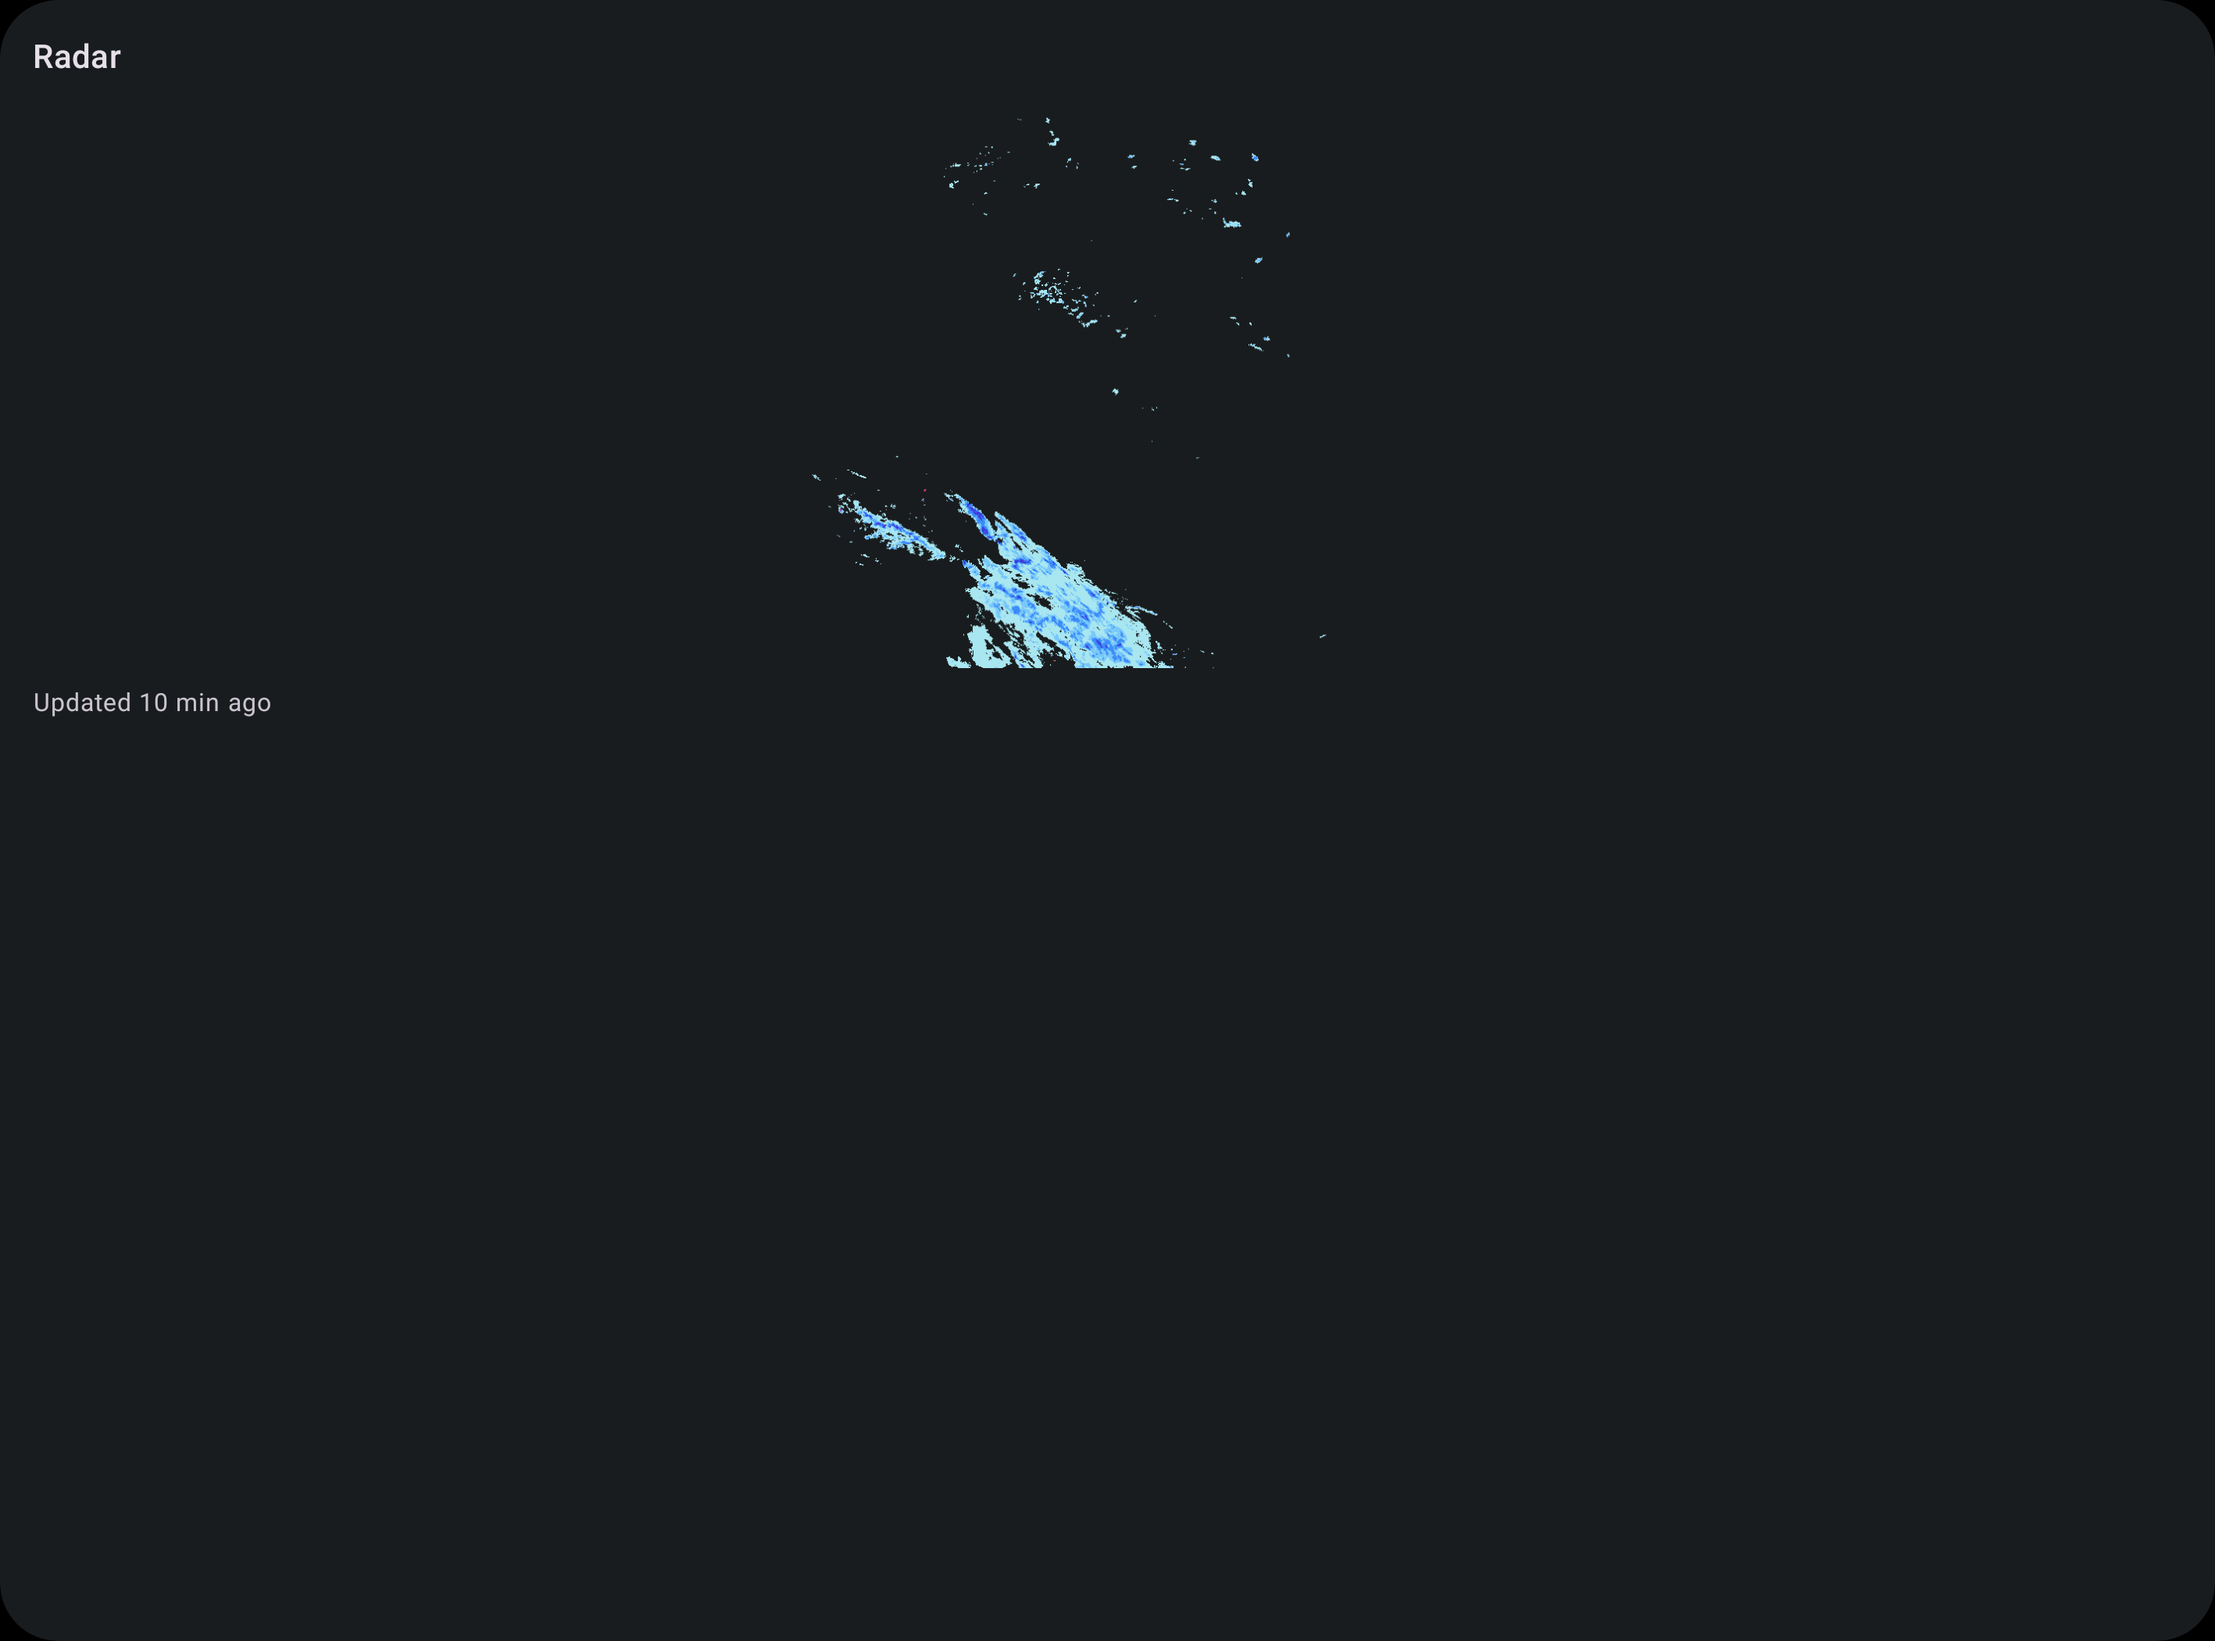
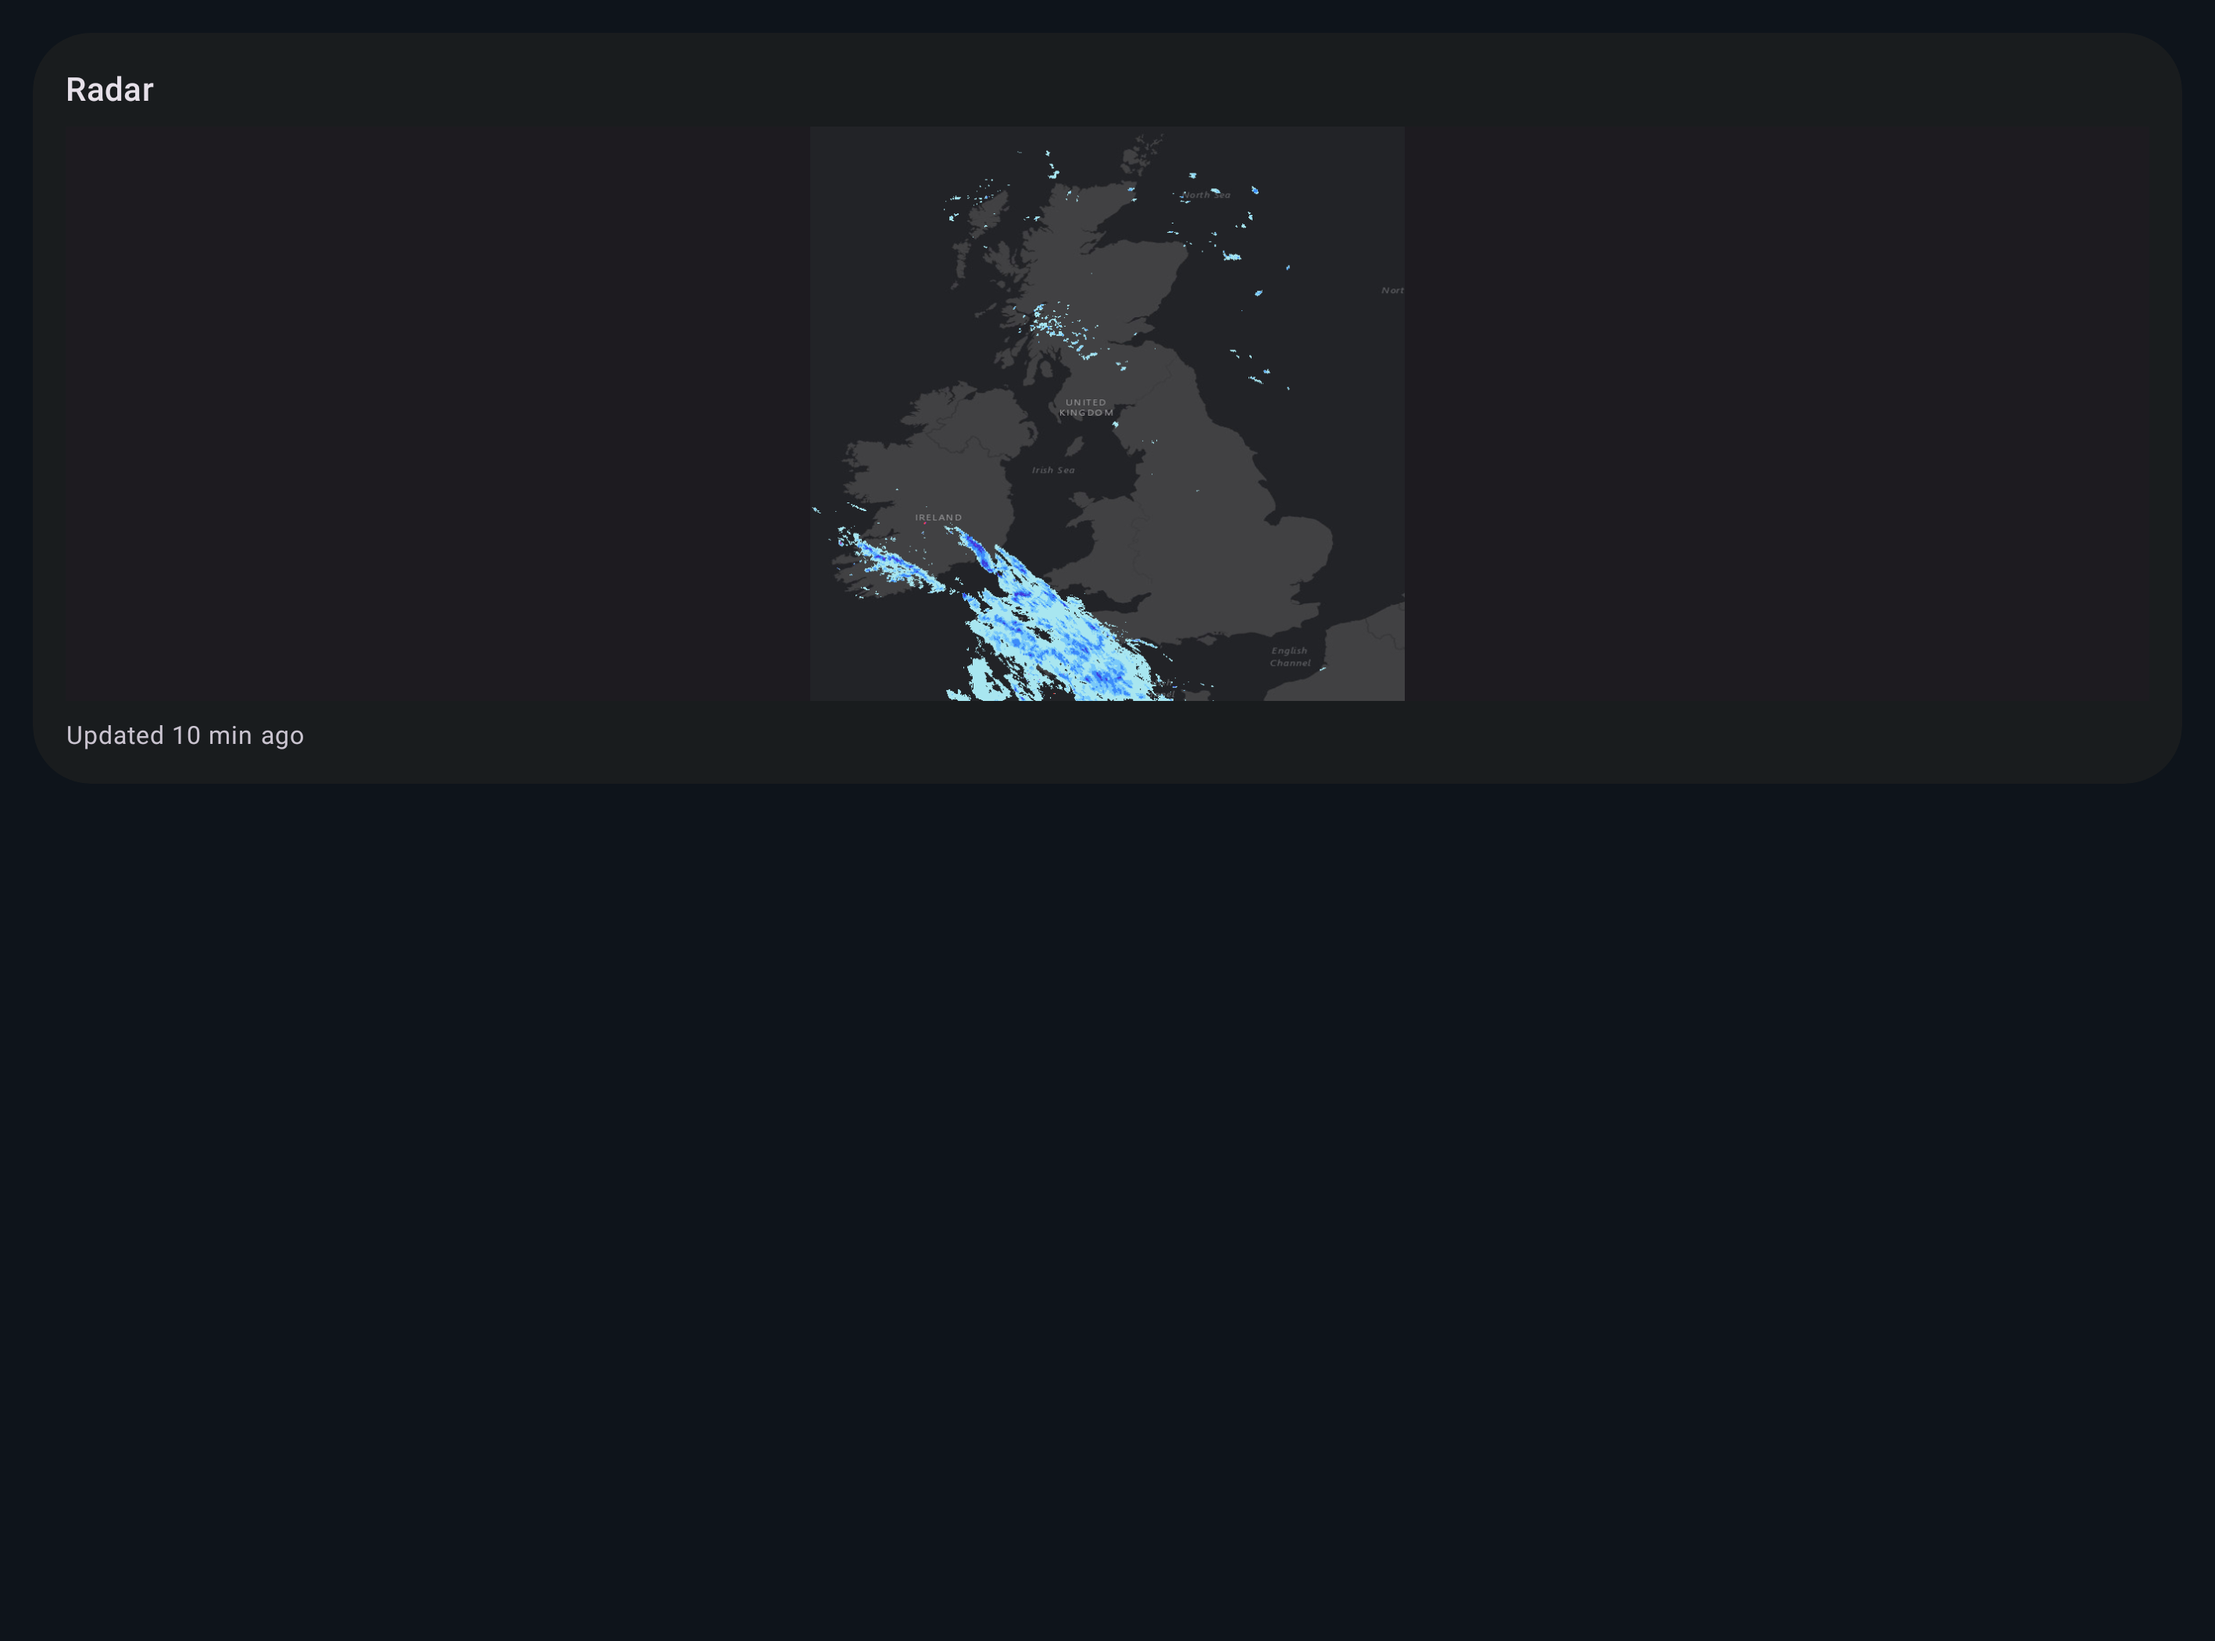
Docs: screenshot v2 gallery (basemap composites)

diff --git a/plan/DECISIONS.md b/plan/DECISIONS.md
@@ -43,3 +43,9 @@ Append-only log. Newest at bottom.
 - Detail shots share a `DetailShell` (Surface + Scaffold + TopAppBar with back arrow) mirroring production chrome; M3 icons render fine under Roborazzi (arrow visible).
 - Gallery: card day/night/unavailable + detail day/night/loading/unavailable; contact sheet in `plan/research/evidence/live-qa-2026-10-11/`.
 - Remaining shots need hardware: card in real main screen, live GL map over OFM basemap (`adb devices` empty, no KVM, macOS QEMU dead).
+
+## 2026-10-12 — Screenshots v2: real basemap composites, home-style host
+- Old set rightly rejected: transparent snapshot on white = invisible map, card floating in void, no app context.
+- New fixtures composite the LIVE snapshot over Esri light/dark-gray reference basemaps at the exact snapshot bbox (lon -11..3.5, lat 49.5..59.5) — test-only stand-ins, production renders OFM vector tiles. CartoDB was tried first but now needs an API key (watermarked tiles discarded).
+- Card tests host the real card in a wallpaper-tinted FrameLayout (day #C9E8F7 / night #0E141B) with 16dp list margins, matching the home screen.
+- Production card art gets a `colorSurfaceContainerLow` well so sparse days read as designed surface, not void.
